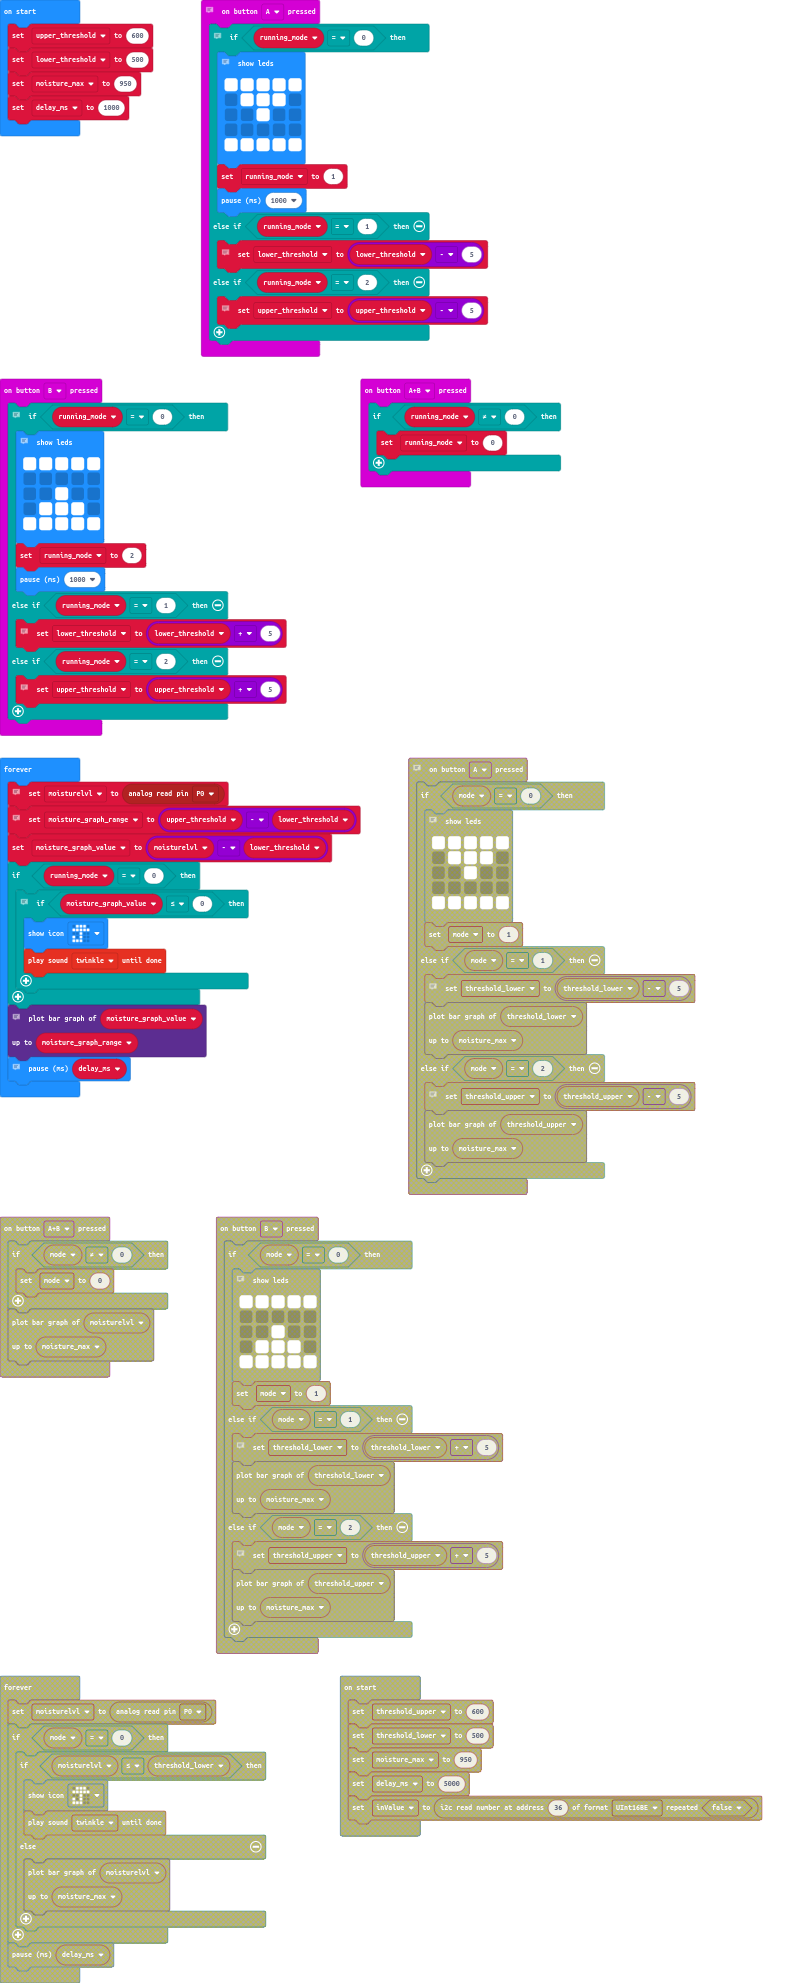
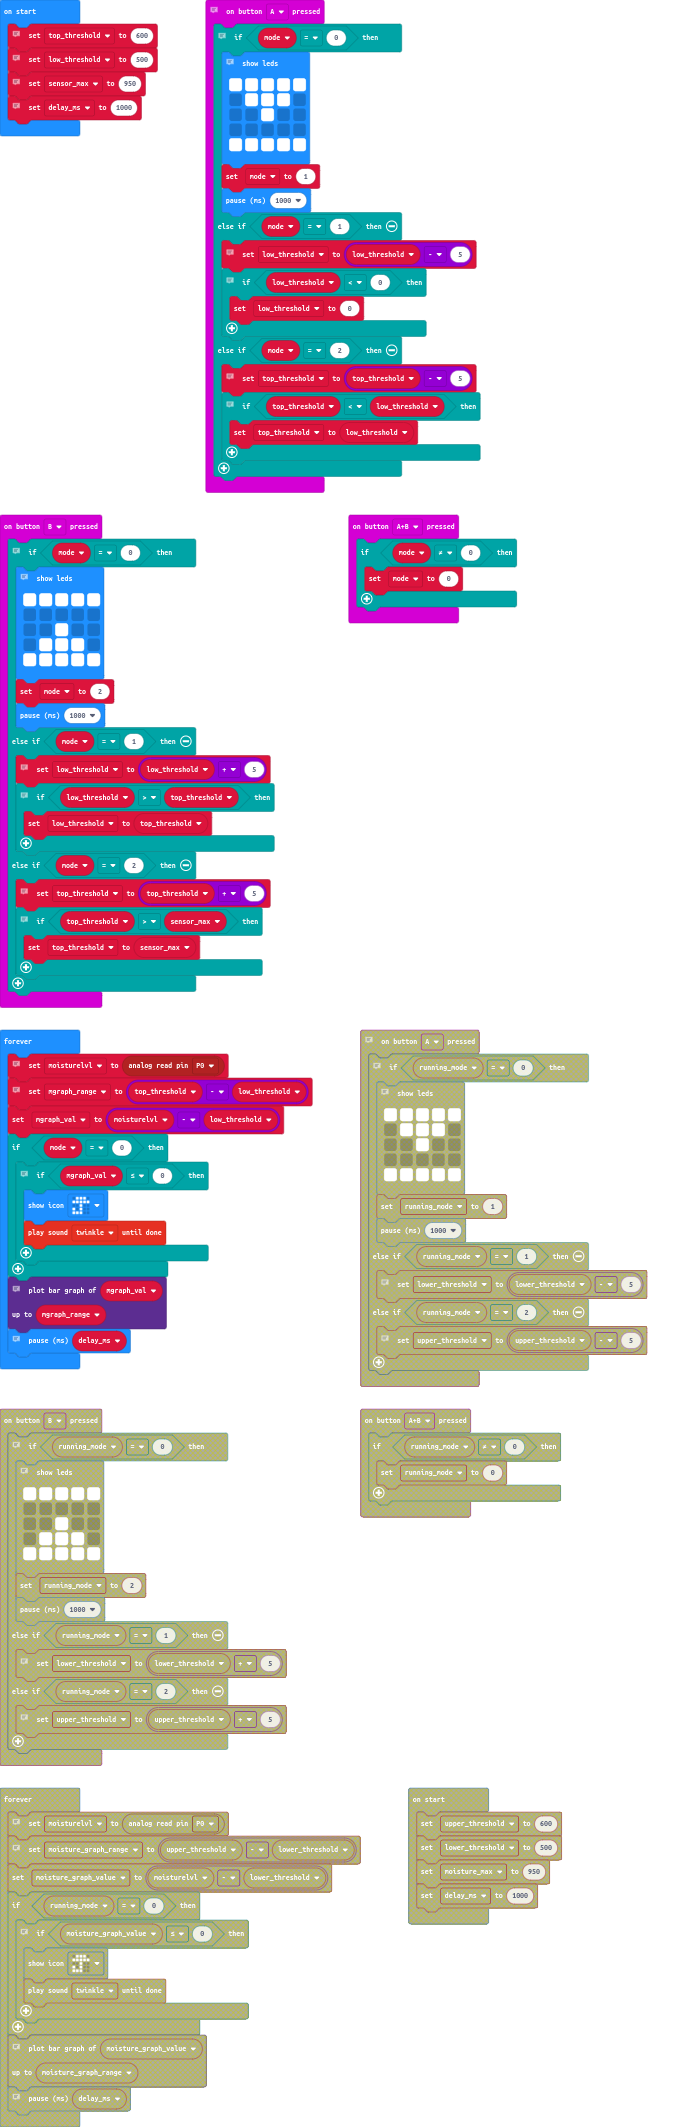
Cleaning up

diff --git a/main.ts b/main.ts
@@ -1,90 +1,105 @@
-//  running_modes
-//  0 = constant/curent display
-//  1 = lower thresshold menu
-//  2 = upper thresshold menu
-input.onButtonPressed(Button.A, function on_button_pressed_a() {
-    
-    //  When the A button is pressed, either select the lowerthreshold menu running_mode
-    //  or decrease the threshold of the running_mode that is currently selected
-    if (running_mode == 0) {
-        //  If running running_mode, switch to lower_threshold editing and display an indicator
+// modes
+// 0 = constant/curent display
+// 1 = lower threshold menu
+// 2 = upper threshold menu
+input.onButtonPressed(Button.A, function () {
+    // When the A button is pressed, either select the lowerthreshold menu mode
+    // or decrease the threshold of the mode that is currently selected
+    if (mode == 0) {
+        // If mode is "running/display", switch to low_threshold editing and display an indicator
         basic.showLeds(`
             # # # # #
-                        . # # # .
-                        . . # . .
-                        . . . . .
-                        # # # # #
-        `)
-        running_mode = 1
+            . # # # .
+            . . # . .
+            . . . . .
+            # # # # #
+            `)
+        mode = 1
         basic.pause(1000)
-    } else if (running_mode == 1) {
-        //  If lower-edit running_mode, decrease lower threshold
-        lower_threshold = lower_threshold - 5
-    } else if (running_mode == 2) {
-        //  If upper-edit running_mode, decrease upper threshold
-        upper_threshold = upper_threshold - 5
+    } else if (mode == 1) {
+        // If lower-edit mode, decrease lower threshold
+        low_threshold = low_threshold - 5
+        // limit threshold to zero for sanity
+        if (low_threshold < 0) {
+            low_threshold = 0
+        }
+    } else if (mode == 2) {
+        // If upper-edit mode, decrease upper threshold
+        top_threshold = top_threshold - 5
+        // Limit threshold to always be equal or above low_threshold
+        if (top_threshold < low_threshold) {
+            top_threshold = low_threshold
+        }
     }
-    
 })
-input.onButtonPressed(Button.AB, function on_button_pressed_ab() {
-    
-    if (running_mode != 0) {
-        running_mode = 0
+input.onButtonPressed(Button.AB, function () {
+    if (mode != 0) {
+        mode = 0
     }
-    
 })
-input.onButtonPressed(Button.B, function on_button_pressed_b() {
-    
-    //  When the B button is pressed, either select the upper threshold menu running_mode
-    //  or increase the threshold of the running_mode that is currently selected
-    if (running_mode == 0) {
-        //  If running running_mode, switch to upper_threshold editing and display an indicator
+input.onButtonPressed(Button.B, function () {
+    // When the B button is pressed, either select the upper threshold menu mode
+    // or increase the threshold of the mode that is currently selected
+    if (mode == 0) {
+        // If mode is "running/display", switch to top_threshold editing and display an indicator
         basic.showLeds(`
             # # # # #
-                        . . . . .
-                        . . # . .
-                        . # # # .
-                        # # # # #
-        `)
-        running_mode = 2
+            . . . . .
+            . . # . .
+            . # # # .
+            # # # # #
+            `)
+        mode = 2
         basic.pause(1000)
-    } else if (running_mode == 1) {
-        //  If lower-edit running_mode, increase lower threshold
-        lower_threshold = lower_threshold + 5
-    } else if (running_mode == 2) {
-        //  If upper-edit running_mode, increase upper threshold
-        upper_threshold = upper_threshold + 5
+    } else if (mode == 1) {
+        // If lower-edit mode, increase lower threshold
+        low_threshold = low_threshold + 5
+        // Limit low_threshold to always be equal or below top_threshold
+        if (low_threshold > top_threshold) {
+            low_threshold = top_threshold
+        }
+    } else if (mode == 2) {
+        // If upper-edit mode, increase upper threshold
+        top_threshold = top_threshold + 5
+        // Limit top_threshold to always be below the sensor_max
+        if (top_threshold > sensor_max) {
+            top_threshold = sensor_max
+        }
     }
-    
 })
-let moisture_graph_value = 0
-let moisture_graph_range = 0
+let mgraph_val = 0
+let mgraph_range = 0
 let moisturelvl = 0
-let running_mode = 0
-let lower_threshold = 0
-let upper_threshold = 0
-upper_threshold = 600
-lower_threshold = 500
-let moisture_max = 950
+let mode = 0
+let sensor_max = 0
+let low_threshold = 0
+let top_threshold = 0
+// Default top_threshold
+top_threshold = 600
+// Default low_threshold
+low_threshold = 500
+// sensor_max is the value from the hardwaree device spec sheet
+sensor_max = 950
+// delay_ms is the time to delay between updates in miliseconds
 let delay_ms = 1000
-basic.forever(function on_forever() {
-    
-    //  Read the moisture sensor
+basic.forever(function () {
+    // Read the moisture sensor
     moisturelvl = pins.analogReadPin(AnalogPin.P0)
-    //  Calculate the range (in case it has changed)
-    moisture_graph_range = upper_threshold - lower_threshold
-    moisture_graph_value = moisturelvl - lower_threshold
-    if (running_mode == 0) {
-        //  In running running_mode, check if the moisture is in range and alert if it is not
-        if (moisture_graph_value <= 0) {
+    // Calculate the range (in case it has changed)
+    mgraph_range = top_threshold - low_threshold
+    mgraph_val = moisturelvl - low_threshold
+    if (mode == 0) {
+        // In running mode, check if the moisture is in range and alert if it is not
+        if (mgraph_val <= 0) {
             basic.showIcon(IconNames.Umbrella)
             soundExpression.twinkle.playUntilDone()
         }
-        
     }
-    
-    //  In other running_modes, display the current moisture in the context of the specified moisture_graph_range
-    led.plotBarGraph(moisture_graph_value, moisture_graph_range)
-    //  Pause to leave the display on long enough to be seen
+    // In other modes, display the current moisture in the context of the specified mgraph_range
+    led.plotBarGraph(
+    mgraph_val,
+    mgraph_range
+    )
+    // Pause to leave the display on long enough to be seen
     basic.pause(delay_ms)
 })

diff --git a/main.py b/main.py
@@ -1,14 +1,14 @@
-# running_modes
+# modes
 # 0 = constant/curent display
-# 1 = lower thresshold menu
-# 2 = upper thresshold menu
+# 1 = lower threshold menu
+# 2 = upper threshold menu
 
 def on_button_pressed_a():
-    global running_mode, lower_threshold, upper_threshold
-    # When the A button is pressed, either select the lowerthreshold menu running_mode
-    # or decrease the threshold of the running_mode that is currently selected
-    if running_mode == 0:
-        # If running running_mode, switch to lower_threshold editing and display an indicator
+    global mode, low_threshold, top_threshold
+    # When the A button is pressed, either select the lowerthreshold menu mode
+    # or decrease the threshold of the mode that is currently selected
+    if mode == 0:
+        # If mode is "running/display", switch to low_threshold editing and display an indicator
         basic.show_leds("""
             # # # # #
                         . # # # .
@@ -16,28 +16,34 @@ def on_button_pressed_a():
                         . . . . .
                         # # # # #
         """)
-        running_mode = 1
+        mode = 1
         basic.pause(1000)
-    elif running_mode == 1:
-        # If lower-edit running_mode, decrease lower threshold
-        lower_threshold = lower_threshold - 5
-    elif running_mode == 2:
-        # If upper-edit running_mode, decrease upper threshold
-        upper_threshold = upper_threshold - 5
+    elif mode == 1:
+        # If lower-edit mode, decrease lower threshold
+        low_threshold = low_threshold - 5
+        # limit threshold to zero for sanity
+        if low_threshold < 0:
+            low_threshold = 0
+    elif mode == 2:
+        # If upper-edit mode, decrease upper threshold
+        top_threshold = top_threshold - 5
+        # Limit threshold to always be equal or above low_threshold
+        if top_threshold < low_threshold:
+            top_threshold = low_threshold
 input.on_button_pressed(Button.A, on_button_pressed_a)
 
 def on_button_pressed_ab():
-    global running_mode
-    if running_mode != 0:
-        running_mode = 0
+    global mode
+    if mode != 0:
+        mode = 0
 input.on_button_pressed(Button.AB, on_button_pressed_ab)
 
 def on_button_pressed_b():
-    global running_mode, lower_threshold, upper_threshold
-    # When the B button is pressed, either select the upper threshold menu running_mode
-    # or increase the threshold of the running_mode that is currently selected
-    if running_mode == 0:
-        # If running running_mode, switch to upper_threshold editing and display an indicator
+    global mode, low_threshold, top_threshold
+    # When the B button is pressed, either select the upper threshold menu mode
+    # or increase the threshold of the mode that is currently selected
+    if mode == 0:
+        # If mode is "running/display", switch to top_threshold editing and display an indicator
         basic.show_leds("""
             # # # # #
                         . . . . .
@@ -45,41 +51,52 @@ def on_button_pressed_b():
                         . # # # .
                         # # # # #
         """)
-        running_mode = 2
+        mode = 2
         basic.pause(1000)
-    elif running_mode == 1:
-        # If lower-edit running_mode, increase lower threshold
-        lower_threshold = lower_threshold + 5
-    elif running_mode == 2:
-        # If upper-edit running_mode, increase upper threshold
-        upper_threshold = upper_threshold + 5
+    elif mode == 1:
+        # If lower-edit mode, increase lower threshold
+        low_threshold = low_threshold + 5
+        # Limit low_threshold to always be equal or below top_threshold
+        if low_threshold > top_threshold:
+            low_threshold = top_threshold
+    elif mode == 2:
+        # If upper-edit mode, increase upper threshold
+        top_threshold = top_threshold + 5
+        # Limit top_threshold to always be below the sensor_max
+        if top_threshold > sensor_max:
+            top_threshold = sensor_max
 input.on_button_pressed(Button.B, on_button_pressed_b)
 
-moisture_graph_value = 0
-moisture_graph_range = 0
+mgraph_val = 0
+mgraph_range = 0
 moisturelvl = 0
-running_mode = 0
-lower_threshold = 0
-upper_threshold = 0
-upper_threshold = 600
-lower_threshold = 500
-moisture_max = 950
+mode = 0
+sensor_max = 0
+low_threshold = 0
+top_threshold = 0
+# Default top_threshold
+top_threshold = 600
+# Default low_threshold
+low_threshold = 500
+# sensor_max is the value from the hardwaree device spec sheet
+sensor_max = 950
+# delay_ms is the time to delay between updates in miliseconds
 delay_ms = 1000
 
 def on_forever():
-    global moisturelvl, moisture_graph_range, moisture_graph_value
+    global moisturelvl, mgraph_range, mgraph_val, top_threshold, low_threshold, delay_ms
     # Read the moisture sensor
     moisturelvl = pins.analog_read_pin(AnalogPin.P0)
     # Calculate the range (in case it has changed)
-    moisture_graph_range = upper_threshold - lower_threshold
-    moisture_graph_value = moisturelvl - lower_threshold
-    if running_mode == 0:
-        # In running running_mode, check if the moisture is in range and alert if it is not
-        if moisture_graph_value <= 0:
+    mgraph_range = top_threshold - low_threshold
+    mgraph_val = moisturelvl - low_threshold
+    if mode == 0:
+        # In running mode, check if the moisture is in range and alert if it is not
+        if mgraph_val <= 0:
             basic.show_icon(IconNames.UMBRELLA)
             soundExpression.twinkle.play_until_done()
-    # In other running_modes, display the current moisture in the context of the specified moisture_graph_range
-    led.plot_bar_graph(moisture_graph_value, moisture_graph_range)
+    # In other modes, display the current moisture in the context of the specified mgraph_range
+    led.plot_bar_graph(mgraph_val, mgraph_range)
     # Pause to leave the display on long enough to be seen
     basic.pause(delay_ms)
 basic.forever(on_forever)
